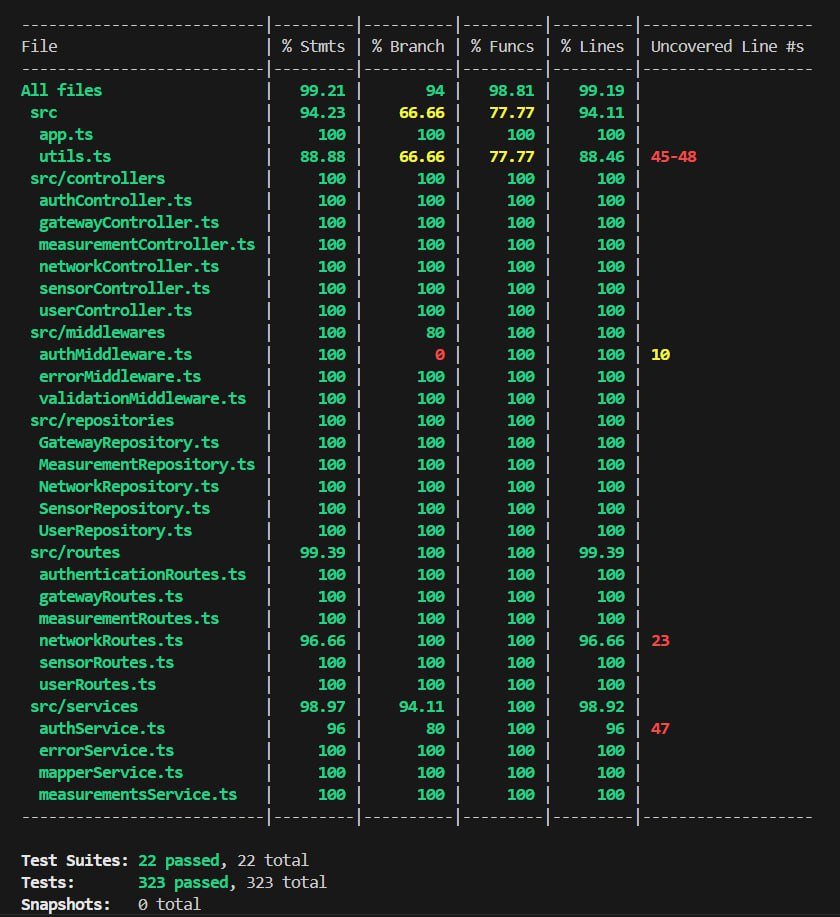
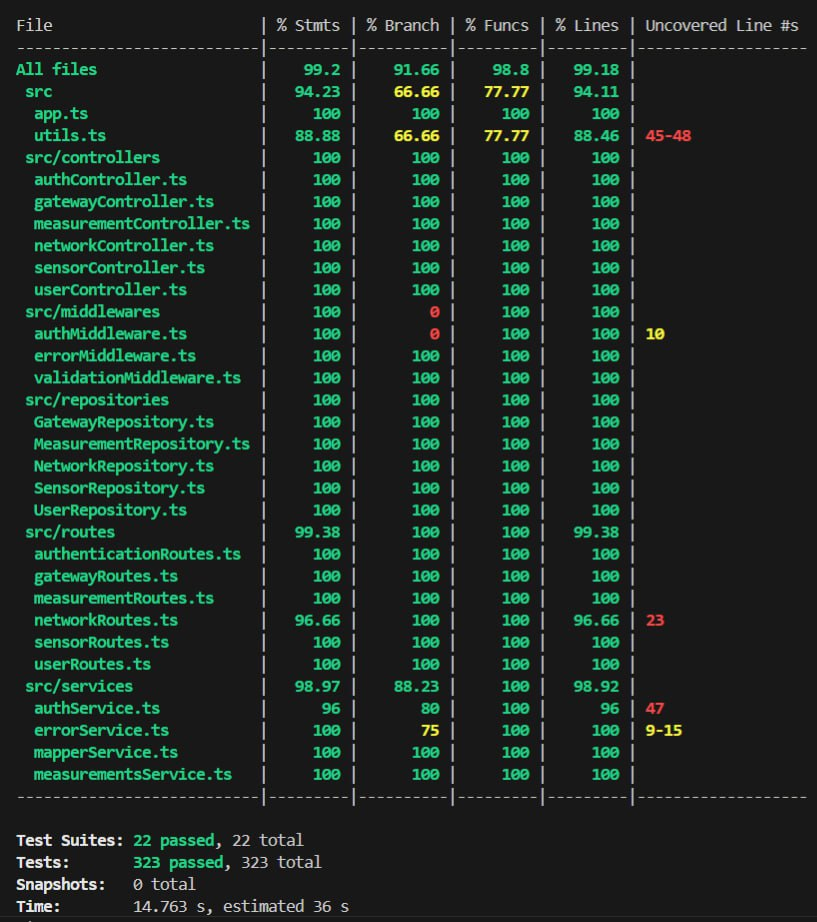
aggiornata l'immagine del test report, aggiunta la tabella che riassume i test effettuati

Changed region(s): [[0.0, 0.0, 0.9792, 1.0]]

diff --git a/doc/TestReport.md b/doc/TestReport.md
@@ -38,9 +38,9 @@
   
   ### integration test
   ####  integration test controller
-  - Testano l'integrazione fra il controller layer, il service layer (mapper Dao Dto), il repository e il database vero e proprio,<br> infatti questi test sono eseguiti utilizzando un database di test e non un mock di esso
+  - Testano l'integrazione fra il controller layer, il mapping Dto/Dao, il repository e il database vero e proprio,<br> infatti questi test sono eseguiti utilizzando un database di test e non un mock di esso
   #### integration test routes
-  - Testano l'integrazione fra il layer route, authentication, controller e validation, <br> con alcuni test che chiamano in gioco anche il middleware di gestione errori. <br> Sono eseguiti usando jest e i mock , non ci sono vere interazioni col db, controller e servizio di autenticazione vengono simulati
+  - Testano l'integrazione fra il layer route, authentication, controller e validation, <br> con alcuni test che chiamano in gioco anche il middleware di gestione errori. <br> Sono eseguiti usando jest e i mock , non ci sono vere interazioni col db, controller e servizio di autenticazione, che vengono simulati
   ### e2e test
   - Test completo dell'intera applicazione compreso database e servizio http, <br> verifica il corretto funzionamento dell'applicazione compresa la generazione di token per l'autenticazione e lettura e scrittura da database. <br> Sempre eseguito per strati
 
@@ -53,11 +53,33 @@
 | Test case name                                      | Object(s) tested                  | Test level     | Technique used          |
 | :------------------------------------------------: | :-------------------------------: | :------------: | :---------------------: |
 | **Unit Tests (GatewayRepository.db.test.ts)**      |                                   |                |                         |
-| create gateway                                      | GatewayRepository                 | Unit           | WB/statement coverage   |
-| error create gateway if the network does not exist | GatewayRepository                 | Unit           | WB/statement coverage   |
-| create gateway: conflict                           | GatewayRepository                 | Unit           | WB/statement coverage   |
-| ConflictError if new MAC address already exists    | GatewayRepository                 | Unit           | WB/statement coverage   |
-| get all gateways                                   | GatewayRepository                 | Unit           | WB/statement coverage   |
+| Error handling (NotFound, Conflict)                | all repositories                  | Unit           | WB/statement coverage   |
+| Create/read/readAll/update/delete   (CRUD)         | all repositories                  | Unit           | WB/statement coverage   |
+| Validation logic                                   | all repositories                  | Unit           | WB/statement coverage   |
+| **Unit Tests - Service Layer**                     |                |
+| Measurement service calculations                   | measurementService                | Unit           | BB/equivalence partitioning   |
+| Authentication service logic                       | authService                       | Unit           | BB/equivalence partitioning  |
+| **Integration Tests - Controller Layer**           |                                   |                |                           |
+| Network controller integration                     | networkController + repository    | Integration    | BB/equivalence partitioning |
+| Gateway controller integration                     | gatewayController + repository    | Integration    | BB/equivalence partitioning |
+| Sensor controller integration                      | sensorController + repository     | Integration    | BB/equivalence partitioning |
+| User controller integration                        | userController + repository       | Integration    | BB/equivalence partitioning |
+| **Integration Tests - Routes Layer**               |                  |
+| Authentication & authorization flow                | routes + authService + middleware | Integration    | BB/equivalence partitioning |
+| Input validation & error handling                  | routes + validationMiddleware     | Integration    | BB/boundary values      |
+| Network routes (CRUD + permissions)                | NetworkRoutes + Controller        | Integration    | BB/equivalence partitioning |
+| Gateway routes (CRUD + permissions)                | GatewayRoutes + Controller        | Integration    | BB/equivalence partitioning |
+| Sensor routes (CRUD + permissions)                 | SensorRoutes + Controller         | Integration    | BB/equivalence partitioning |
+| User routes (CRUD + permissions)                   | UserRoutes + Controller           | Integration    | BB/equivalence partitioning |
+| **E2E Tests - Complete System**                    |                                   |                |                         |
+| Authentication workflows (login, token validation) | complete Auth System              | e2e            | BB/equivalence partitioning |
+| User management workflows                          | user API + database               | e2e            | BB/equivalence partitioning |
+| Network management workflows                       | network API + database            | e2e            | BB/equivalence partitioning |
+| Gateway management workflows                       | gateway API + database            | e2e            | BB/equivalence partitioning |
+| Sensor management workflows                        | sensor API + database             | e2e            | BB/equivalence partitioning |
+| Measurement workflows                              | measurement API + database        | e2e            | BB/equivalence partitioning |
+| Error scenarios (404, 409, 403, 401)               | complete system                   | e2e            | BB/error conditions     |
+| Data persistence & relationships                   | database + API                    | e2e            | BB/equivalence partitioning |
 
 
 # Coverage
